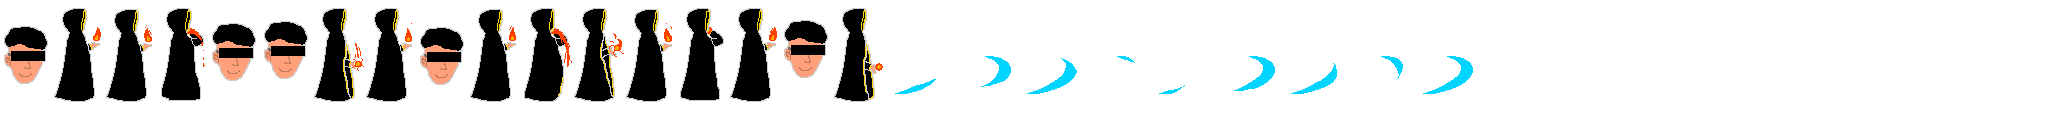
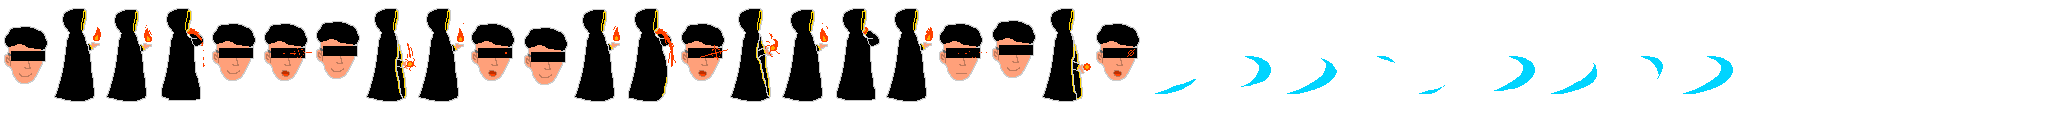
modified:   assets/animations.atlas 	modified:   assets/animations.png 	modified:   assets/images.atlas 	modified:   assets/images.png 	new file:   assets/particles/flame/flame.p 	new file:   assets/particles/flame/flame.png 	modified:   core/src/com/mygdx/game/Bullets.java 	modified:   core/src/com

Changed region(s): [[0.125, 0.0625, 0.5625, 0.8125], [0.5625, 0.4375, 0.7812, 0.75], [0.7812, 0.4375, 0.8438, 0.75]]

diff --git a/core/src/com/mygdx/game/MainStage.java b/core/src/com/mygdx/game/MainStage.java
@@ -96,8 +96,7 @@ public class MainStage extends Stage {
         }
 
         for (Bullet i : bullets) {
-            boolean t = i.team == player.team;
-            drawArrowtoAim(i.getCenterX(), i.getY(), i.nextpoint.x, i.nextpoint.y, t ? Color.GREEN : Color.YELLOW);
+            drawArrowtoAim(i.getCenterX(), i.getY(), i.nextpoint.x, i.nextpoint.y, (i.team == player.team) ? Color.GREEN : Color.YELLOW);
         }
         sr.end();
 
@@ -179,16 +178,6 @@ public class MainStage extends Stage {
 
             }
         }
-    }
-
-    public Figure getFigurebyPosition(float x, float y) {
-        for (int i = figures.size - 1; i >= 0; i--) {
-            Figure figure = figures.get(i);
-            if (figure.relativePosition.x == x && figure.relativePosition.y == y) {
-                return figure;
-            }
-        }
-        return null;
     }
 
     void updateBullets() {
@@ -331,6 +320,16 @@ public class MainStage extends Stage {
         return figures;
     }
 
+    public Figure getFigurebyPosition(float x, float y) {
+        for (int i = figures.size - 1; i >= 0; i--) {
+            Figure figure = figures.get(i);
+            if (figure.relativePosition.x == x && figure.relativePosition.y == y) {
+                return figure;
+            }
+        }
+        return null;
+    }
+
     public void drawArrowtoAim(float startx, float starty, float tox, float toy, Color color) {
         ShapeRenderer sr = Consts.sr;
         Vector2 vec = Map.getAbsPosition(tox, toy);
@@ -351,15 +350,14 @@ public class MainStage extends Stage {
         p2X = -n * MathUtils.cos(a + MathUtils.HALF_PI) + m * MathUtils.cos(a) * Math.signum(startx - endx) + endx;
         p2Y = -n * MathUtils.sin(a + MathUtils.HALF_PI) + m * MathUtils.sin(a) * Math.signum(startx - endx) + endy;
 
-        lEndx = m * MathUtils.cos(a) * Math.signum(startx - endx) + endx;
-        lEndy = m * MathUtils.sin(a) * Math.signum(startx - endx) + endy;
+        lEndx = (m - 4) * MathUtils.cos(a) * Math.signum(startx - endx) + endx;
+        lEndy = (m - 4) * MathUtils.sin(a) * Math.signum(startx - endx) + endy;
 
         // 绘制准备
         sr.setColor(color);
         sr.setProjectionMatrix(Consts.mainstage.getCamera().combined);
 
-        sr.rectLine(startx, starty, lEndx, lEndy, 30);
-        sr.triangle(endx, endy, p1X, p1Y, p2X, p2Y);
+        sr.rectLine(startx, starty, lEndx, lEndy, 15);
+        sr.triangle(endx, endy, p1X, (p1Y > p2Y) ? p1Y - 13 : p1Y + 13, p2X, (p1Y < p2Y) ? p2Y - 13 : p2Y + 13);
     }
-
 }

diff --git a/core/src/com/mygdx/game/Bullets.java b/core/src/com/mygdx/game/Bullets.java
@@ -1,17 +1,22 @@
 package com.mygdx.game;
 
+import com.badlogic.gdx.Gdx;
 import com.badlogic.gdx.graphics.g2d.Batch;
+import com.badlogic.gdx.graphics.g2d.ParticleEffect;
 import com.badlogic.gdx.math.Vector2;
 import com.badlogic.gdx.scenes.scene2d.Actor;
 import com.badlogic.gdx.scenes.scene2d.actions.MoveToAction;
 
 class Bullet extends Actor {
     int direction, speed, penetrate = 1;
-    Vector2 nextpoint = new Vector2();
-    Vector2 relativePosition = new Vector2();
     Damage damage;
     Consts.team team;
     boolean collide = false, arrived = false;
+
+    ParticleEffect effect;
+
+    Vector2 nextpoint = new Vector2();
+    Vector2 relativePosition = new Vector2();
 
     Vector2 tempVec = new Vector2();
 
@@ -23,13 +28,6 @@ class Bullet extends Actor {
 
         setSize(100, 100);
         setRelativePosition(x, y);
-
-        Figure figure = Consts.mainstage.getFigurebyPosition(x, y);
-        if (figure != null && figure.team != team) {
-            nextpoint.set(figure.relativePosition);
-            attack(figure);
-            collide = true;
-        }
 
         getNextPoint();
     }
@@ -76,7 +74,8 @@ class Bullet extends Actor {
 
     @Override
     public void draw(Batch batch, float parentAlpha) {
-        batch.draw(Textures.Error, getX(), getY(), getWidth(), getHeight());
+        batch.draw(Textures.bulletFireBall, getX(), getY() + 25, getWidth(), getHeight());
+        effect.draw(batch, Gdx.graphics.getDeltaTime());
     }
 
     public void setRelativePosition(float x, float y) {
@@ -93,6 +92,8 @@ class Bullet extends Actor {
     @Override
     public void act(float delta) {
         super.act(delta);
+
+        effect.setPosition(getCenterX(), getCenterY() + 25);
 
         if (!arrived && isFinished()) {
             arrived = true;
@@ -137,4 +138,12 @@ class Bullet extends Actor {
     public boolean isFinished() {
         return getActions().isEmpty();
     }
+}
+
+class FireBall extends Bullet {
+    FireBall(Damage damage, float x, float y, int speed, int direction, Consts.team team) {
+        super(damage, x, y, speed, direction, team);
+        effect = Effects.getEffect(Effects.types.flame);
+    }
+
 }

diff --git a/core/src/com/mygdx/game/Effects.java b/core/src/com/mygdx/game/Effects.java
@@ -8,23 +8,18 @@ public class Effects {
     static ParticleEffect deathEffect = new ParticleEffect();
     static ParticleEffect releaseEffect = new ParticleEffect();
     static ParticleEffect pointerEffect = new ParticleEffect();
+    static ParticleEffect flameEffect = new ParticleEffect();
 
     static enum types {
-        hit, death, release, pointer
+        hit, death, release, pointer, flame
     }
 
     public static void load() {
-        hitEffect.load(Gdx.files.internal(".\\particles\\spark\\spark.p"),
-                Gdx.files.internal(".\\particles\\spark"));
-
-        deathEffect.load(Gdx.files.internal(".\\particles\\bubble\\bubble.p"),
-                Gdx.files.internal(".\\particles\\bubble"));
-
-        releaseEffect.load(Gdx.files.internal(".\\particles\\card-release\\card-release.p"),
-                Gdx.files.internal(".\\particles\\card-release\\"));
-
-        pointerEffect.load(Gdx.files.internal(".\\particles\\pointer\\pointer.p"),
-                Gdx.files.internal(".\\particles\\pointer\\"));
+        hitEffect.load(Gdx.files.internal(".\\particles\\spark\\spark.p"), Gdx.files.internal(".\\particles\\spark"));
+        deathEffect.load(Gdx.files.internal(".\\particles\\bubble\\bubble.p"), Gdx.files.internal(".\\particles\\bubble"));
+        releaseEffect.load(Gdx.files.internal(".\\particles\\card-release\\card-release.p"), Gdx.files.internal(".\\particles\\card-release\\"));
+        pointerEffect.load(Gdx.files.internal(".\\particles\\pointer\\pointer.p"), Gdx.files.internal(".\\particles\\pointer\\"));
+        flameEffect.load(Gdx.files.internal(".\\particles\\flame\\flame.p"), Gdx.files.internal(".\\particles\\flame\\"));
     }
 
     public static ParticleEffect getEffect(types e) {
@@ -41,6 +36,8 @@ public class Effects {
                 return new ParticleEffect(releaseEffect);
             case pointer:
                 return new ParticleEffect(pointerEffect);
+            case flame:
+                return new ParticleEffect(flameEffect);
 
             default:
                 return null;

diff --git a/core/src/com/mygdx/game/Figure.java b/core/src/com/mygdx/game/Figure.java
@@ -67,33 +67,35 @@ public class Figure extends Actor {
     }
 
     private void playHitEffects() {
-        if (health <= 0) {
-            health = 0;
+        if (!isDying()) {
+            if (health <= 0) {
+                health = 0;
 
-            getActions().clear();
+                getActions().clear();
 
-            // 死亡动画
-            AlphaAction fadeout = new AlphaAction();
-            ParallelAction action = new ParallelAction();
+                // 死亡动画
+                AlphaAction fadeout = new AlphaAction();
+                ParallelAction action = new ParallelAction();
 
-            fadeout.setAlpha(0);
-            fadeout.setDuration(0.64f);
+                fadeout.setAlpha(0);
+                fadeout.setDuration(0.64f);
 
-            action.addAction(fadeout);
-            action.addAction(Animations.getShakingAction(16, 15));
+                action.addAction(fadeout);
+                action.addAction(Animations.getShakingAction(16, 15));
 
-            addAction(action);
+                addAction(action);
 
-            // 死亡特效
-            deathEffect.setPosition(getCenterX(), getCenterY());
-            deathEffect.start();
+                // 死亡特效
+                deathEffect.setPosition(getCenterX(), getCenterY());
+                deathEffect.start();
 
-        } else {
-            addAction(Animations.getShakingAction(4, 5));
+            } else {
+                addAction(Animations.getShakingAction(4, 5));
+            }
+
+            hitEffect.setPosition(getCenterX(), getCenterY());
+            hitEffect.start();
         }
-
-        hitEffect.setPosition(getCenterX(), getCenterY());
-        hitEffect.start();
     }
 
     public void MoveToRelativePosition(float x, float y) {

diff --git a/core/src/com/mygdx/game/Card.java b/core/src/com/mygdx/game/Card.java
@@ -318,7 +318,7 @@ class AttakCard extends Card {
                     return false;
                 }
                 // player.attack(figure, d);
-                Bullet b = new Bullet(d, player.relativePosition.x, player.relativePosition.y, 3, dir, player.team);
+                FireBall b = new FireBall(d, player.relativePosition.x, player.relativePosition.y, 3, dir, player.team);
 
                 Consts.mainstage.addActor(b);
                 Consts.cardstage.addActor(new AttakCard());

diff --git a/core/src/com/mygdx/game/Textures.java b/core/src/com/mygdx/game/Textures.java
@@ -18,6 +18,8 @@ public class Textures {
     public static AtlasRegion textureBleed = textureAtlas.findRegion("status/bleed");
     public static AtlasRegion texturePoisoned = textureAtlas.findRegion("status/poisoned");
 
+    public static AtlasRegion bulletFireBall = textureAtlas.findRegion("bullets/fireball");
+
     public static AtlasRegion getStatusTexture(int ID) {
         switch (ID) {
             case Consts.Status_Bleed:

diff --git a/core/src/com/mygdx/game/Consts.java b/core/src/com/mygdx/game/Consts.java
@@ -27,7 +27,7 @@ public class Consts {
     // 显示常数
     static final int BlockSize = 250;
     static final float ArrowLength = 50;
-    static final float ArrowWidth = 24;
+    static final float ArrowWidth = 30;
 
     // 图片常数
     static final int FigureWidth = 100;
